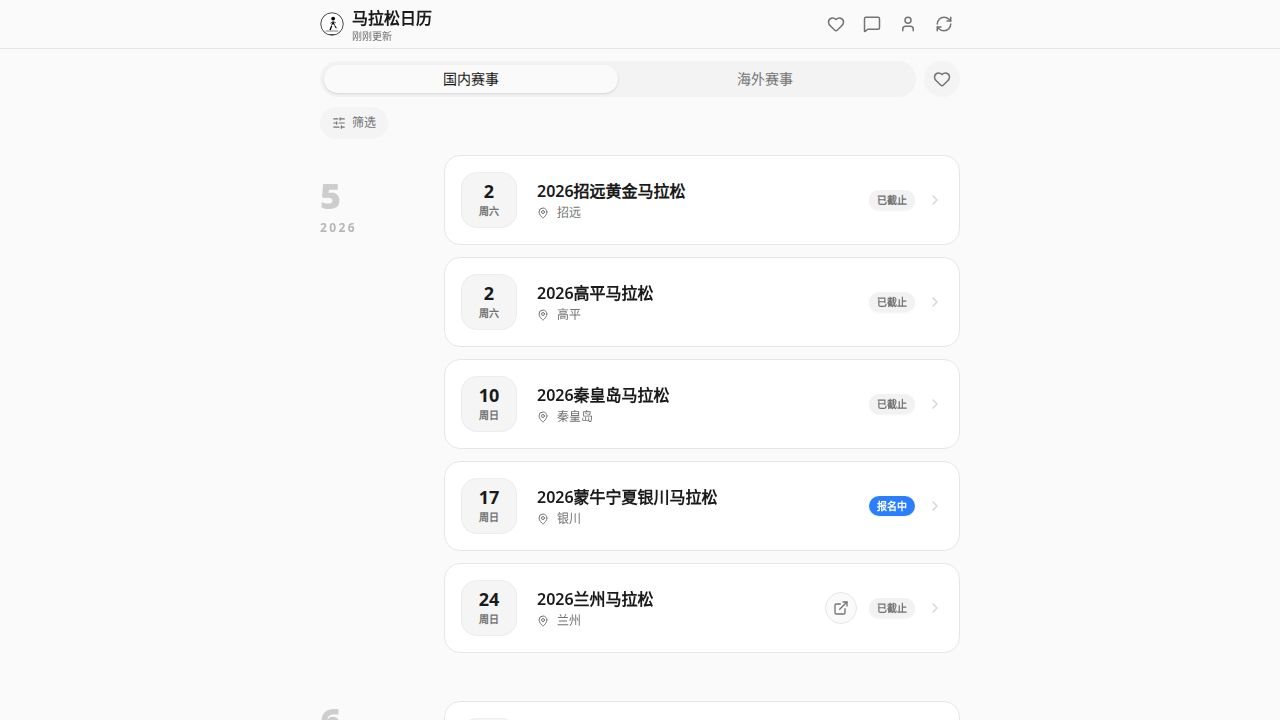
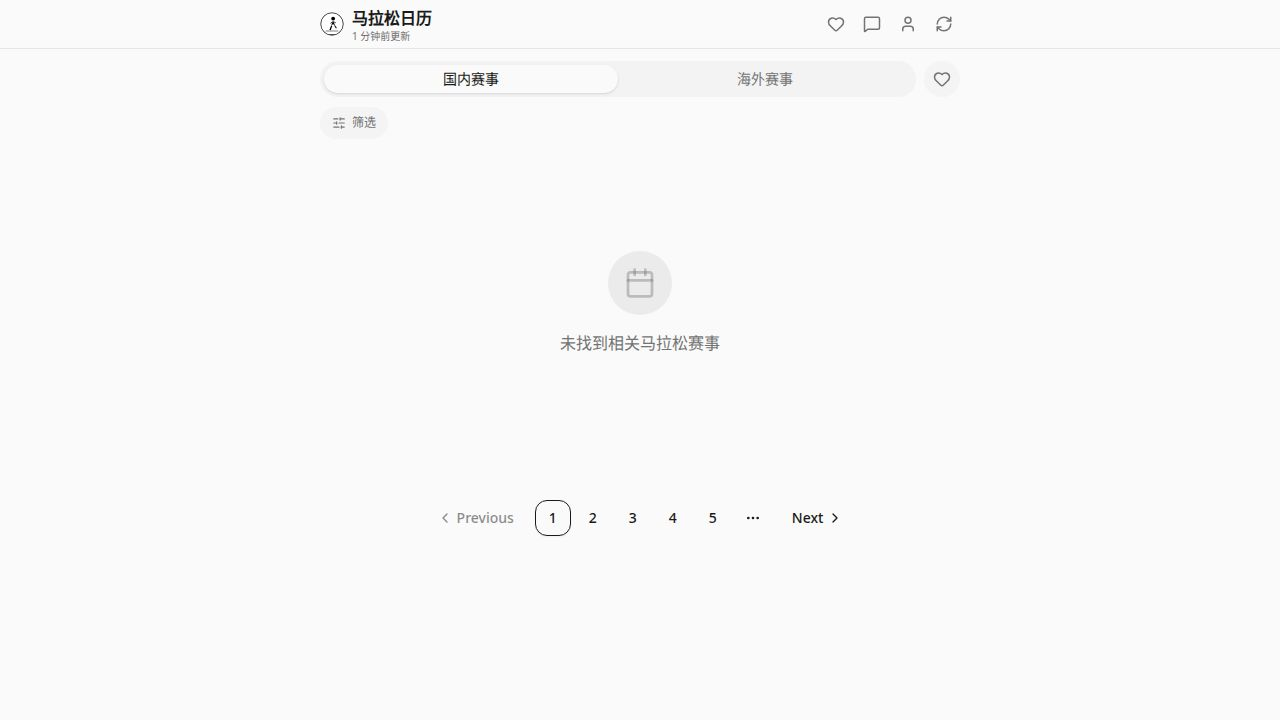
Filter out past marathon events by default on the server
Update server API to filter out past marathon events by default, aligning with frontend behavior and improving pagination accuracy.

Replit-Commit-Author: Agent
Replit-Commit-Session-Id: d9e2c0ea-cb04-4da3-b72e-67a4c88417d4
Replit-Commit-Checkpoint-Type: full_checkpoint
Replit-Commit-Event-Id: f0b4d6c6-5572-4f11-8ca5-ac42e5f464ff
Replit-Commit-Screenshot-Url: https://storage.googleapis.com/screenshot-production-us-central1/5369cdcb-b7cb-4cc7-83a1-a04488b2fc0a/d9e2c0ea-cb04-4da3-b72e-67a4c88417d4/qpMugYT
Replit-Helium-Checkpoint-Created: true

diff --git a/server/routes.ts b/server/routes.ts
@@ -85,6 +85,8 @@ const marathonQuerySchema = z.object({
   status: z.string().optional(),
   sortBy: z.enum(['name', 'createdAt', 'raceDate']).default('raceDate'),
   sortOrder: z.enum(['asc', 'desc']).default('asc'),
+  // 默认只返回未来赛事；显式传 includePast=true 才返回历史。与前端 MarathonTable 默认过滤行为一致。
+  includePast: z.coerce.boolean().default(false),
 });
 
 const searchQuerySchema = z.object({
@@ -927,6 +929,13 @@ export async function registerRoutes(
         editionConditions.push(eq(marathonEditions.registrationStatus, params.status));
       }
 
+      // 默认隐藏 race_date 已过的赛事（与前端过滤一致），显式传 status='已完赛' 或 includePast=true 时不过滤
+      if (!params.includePast && params.status !== '已完赛') {
+        editionConditions.push(
+          sql`(${marathonEditions.raceDate} IS NULL OR ${marathonEditions.raceDate} >= CURRENT_DATE)`
+        );
+      }
+
       const editionWhereClause =
         editionConditions.length > 1 ? and(...editionConditions) : editionConditions[0];
 
@@ -951,7 +960,8 @@ export async function registerRoutes(
       const requiresEditionFilter =
         params.year !== undefined ||
         params.month !== undefined ||
-        params.status !== undefined;
+        params.status !== undefined ||
+        !params.includePast;
 
       const enrichedRecords = baseMarathons
         .map((marathon) => {